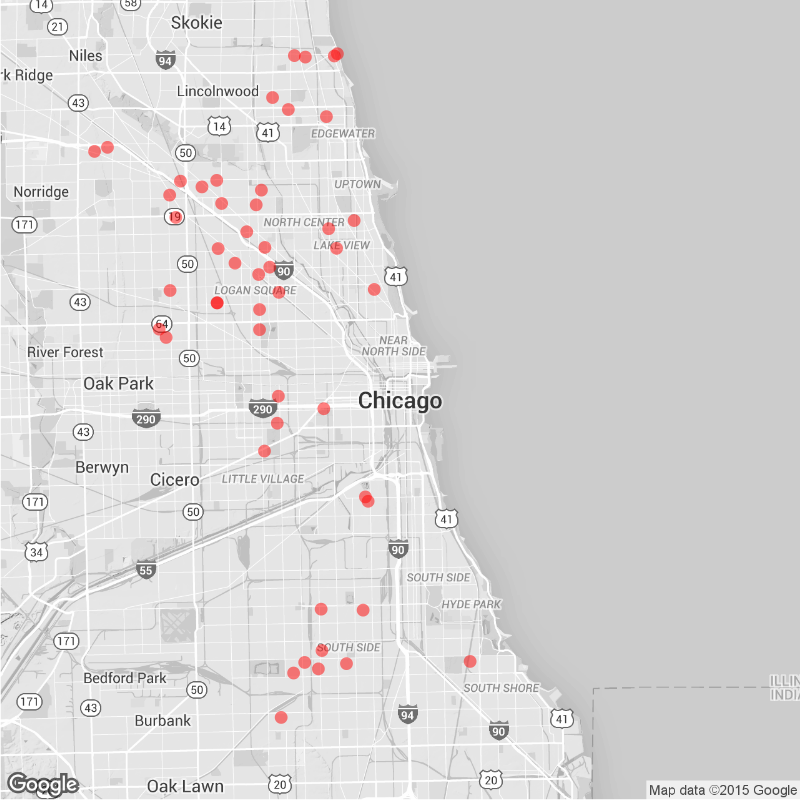
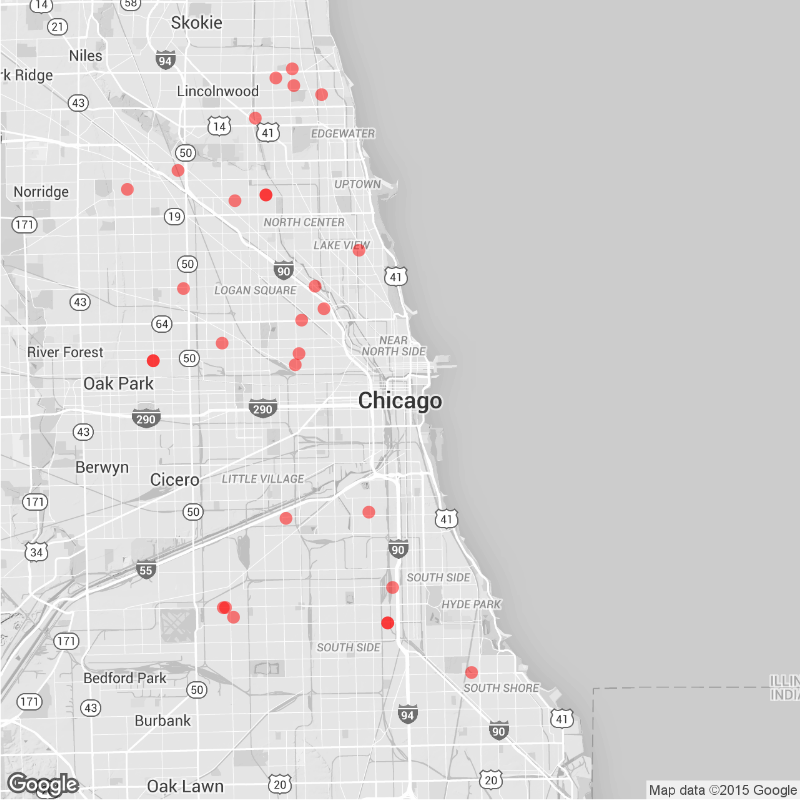
Daily Maps

diff --git a/daily.md b/daily.md
@@ -15,22 +15,22 @@ tags: Chicago NYC weekly daily rats
 
 ### Daily
 
-Yesterday (November 27), there were 51 calls to Chicago's 311 line about rats.
+Yesterday (November 28), there were 31 calls to Chicago's 311 line about rats.
 ![Chicago rat calls to 311 weekly map]({{ site.cityimages }}/daily/Chicago_Rat_Map_Daily.png)
 
 ### Weekly
-Between November 21 and November 27, there were 310 calls to Chicago's 311 line about rats. The average number of weekly calls for this time of year is 417.
+Between November 22 and November 28, there were 321 calls to Chicago's 311 line about rats. The average number of weekly calls for this time of year is 417.
 ![Chicago rat calls to 311 weekly map]({{ site.cityimages }}/daily/Chicago_Rat_Map_Weekly.png)
 ***
 # New York City <a id="nyc"><a>
 
 ### Daily
 
-Yesterday (November 27), there were 0 calls to New York City's 311 line about rats.
+Yesterday (November 28), there were 0 calls to New York City's 311 line about rats.
 ![NYC rat calls to 311 weekly map]({{ site.cityimages }}/daily/NYC_Rat_Map_Daily.png)
 
 ### Weekly
-Between November 21 and November 27, there were 0 calls to New York City's 311 line about rats. The average number of weekly calls for this time of year is 146.
+Between November 22 and November 28, there were 0 calls to New York City's 311 line about rats. The average number of weekly calls for this time of year is 146.
 ![NYC rat calls to 311 weekly map]({{ site.cityimages }}/daily/NYC_Rat_Map_Weekly.png)
 
 Each red dot represents one call about a rat seen in that location. The dots are transparent, so multiple calls from one location will be seen as a solid dot. The usual caveats apply: more calls do not necessarily mean that there are more rats in that location than other parts of the city. A cluster of dots could indicate that one resident is unusually vocal about rodents in his or her neighborhood. Also, more densely populated neighborhoods tend to make more calls to 311.
